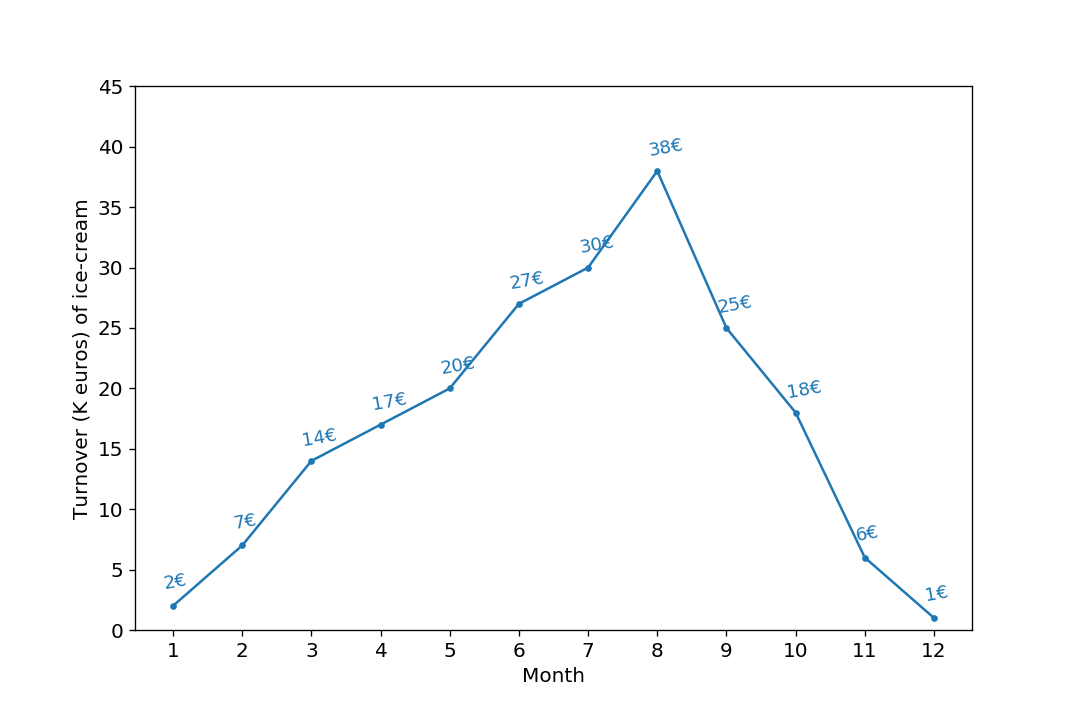
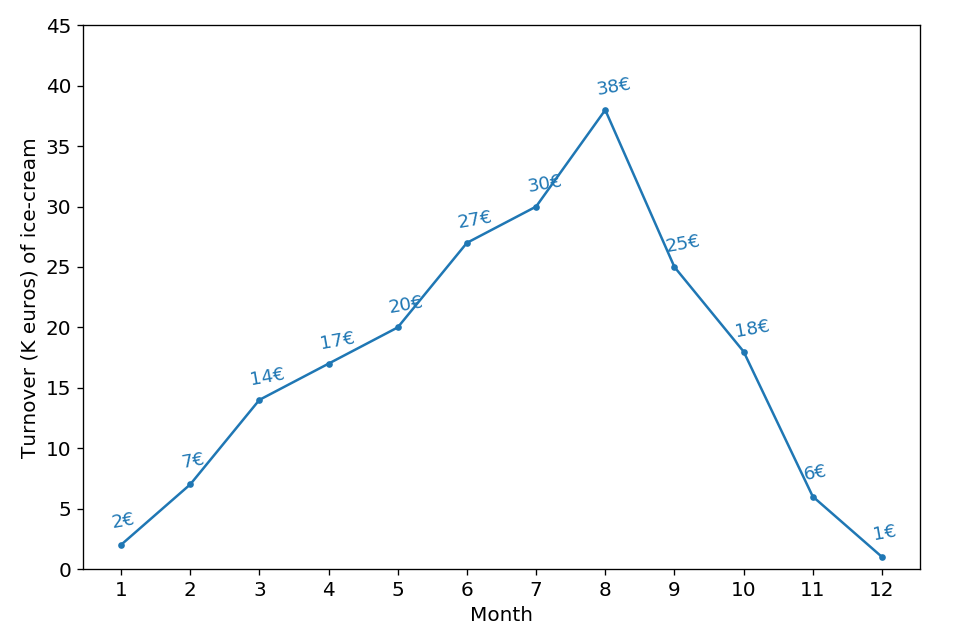
update line chart

diff --git a/_posts/2018-09-16-data-viz-with-matplotlib-series2-line-chart.md b/_posts/2018-09-16-data-viz-with-matplotlib-series2-line-chart.md
@@ -10,22 +10,33 @@ excerpt:            >
     Python.
 ---
 
+<p align="center">
+  <img alt="plot examples"
+  src="{{ site.baseurl }}/images/20181102-matplotlib-series.png
+"/>
+</p>
+
+## Line chart
 A [line chart][line chart] or line graph is a type of chart which displays
-information as aseries of data points called 'markers' connected by straight
+information as a series of data points called 'markers' connected by straight
 line segments. A line chart is often used to visualize a trend in data over
 intervals of time – a time series – thus the line is often drawn chronologically.
 
+### When to use it ?
+- Track changes over time
+- x-axis displays continuous variables
+- Y-axis displays measurement
+
+### Example
 <p align="center">
   <img alt="line plot"
-  src="{{ site.baseurl }}/images/20180916-bar-chart.png"/>
+  src="{{ site.baseurl }}/images/20180916-line-chart.png"/>
 </p>
 
 {% highlight python %}
 import pandas as pd
 import numpy as np
 import matplotlib.pyplot as plt
-
-plt.figure(figsize=(9, 6))
 
 turnover = [2, 7, 14, 17, 20, 27, 30, 38, 25, 18, 6, 1]
 plt.plot(np.arange(12), turnover, marker='.')
@@ -44,14 +55,16 @@ during one year. According to the plot, we can clearly find that the sales
 reach a peak in summer, then fall from autumn to winter, which is logical.
 
 ## Line chart with multiple lines
+### When to use it ?
+Compare different subjects during the same period.
+
+### Example
 <p align="center">
   <img alt="line plot"
   src="{{ site.baseurl }}/images/20180916-multi-line-chart.png"/>
 </p>
 
 {% highlight python %}
-plt.figure(figsize=(9, 6))
-
 year_n_1 = [1.5, 3, 10, 13, 22, 36, 30, 33, 24.5, 15, 6.5, 1.2]
 year_n = [2, 7, 14, 17, 20, 27, 30, 38, 25, 18, 6, 1]
 
@@ -59,12 +72,6 @@ plt.plot(np.arange(12), year_n_1, marker='.', color='#1f77b4',
          label='year N-1', linestyle='--', alpha=0.5)
 plt.plot(np.arange(12), year_n, marker='.', color='#1f77b4',
          label='year N')
-
-plt.tick_params(labelsize=12)
-plt.xticks(np.arange(12), np.arange(1,13))
-plt.xlabel('Month', size=12)
-plt.ylabel('Turnover (K euros) of ice-cream', size=12)
-plt.ylim(bottom=0)
 plt.legend()
 
 plt.show()
@@ -96,18 +103,10 @@ def autolabel_simple_lineplot_mille_wk(df, col_name, lines_color):
 {% endhighlight %}
 
 {% highlight python %}
-df = pd.DataFrame({'turnover':[2, 7, 14, 17, 20, 27, 30, 38, 25, 18, 6, 1]})
+df = pd.DataFrame({'turnover':[2, 7, 14, 17, 20, 27,
+                               30, 38, 25, 18, 6, 1]})
 
-plt.figure(figsize=(9, 6))
-
-turnover = [2, 7, 14, 17, 20, 27, 30, 38, 25, 18, 6, 1]
 plt.plot(df.index, df.turnover, marker='.')
-
-plt.tick_params(labelsize=12)
-plt.xticks(df.index, np.arange(1, 13))
-plt.xlabel('Month', size=12)
-plt.ylabel('Turnover (K euros) of ice-cream', size=12)
-plt.ylim(bottom=0, top=max(df.turnover)+7)
 autolabel_simple_lineplot_mille_wk(df, 'turnover', '#1f77b4')
 
 plt.show()
